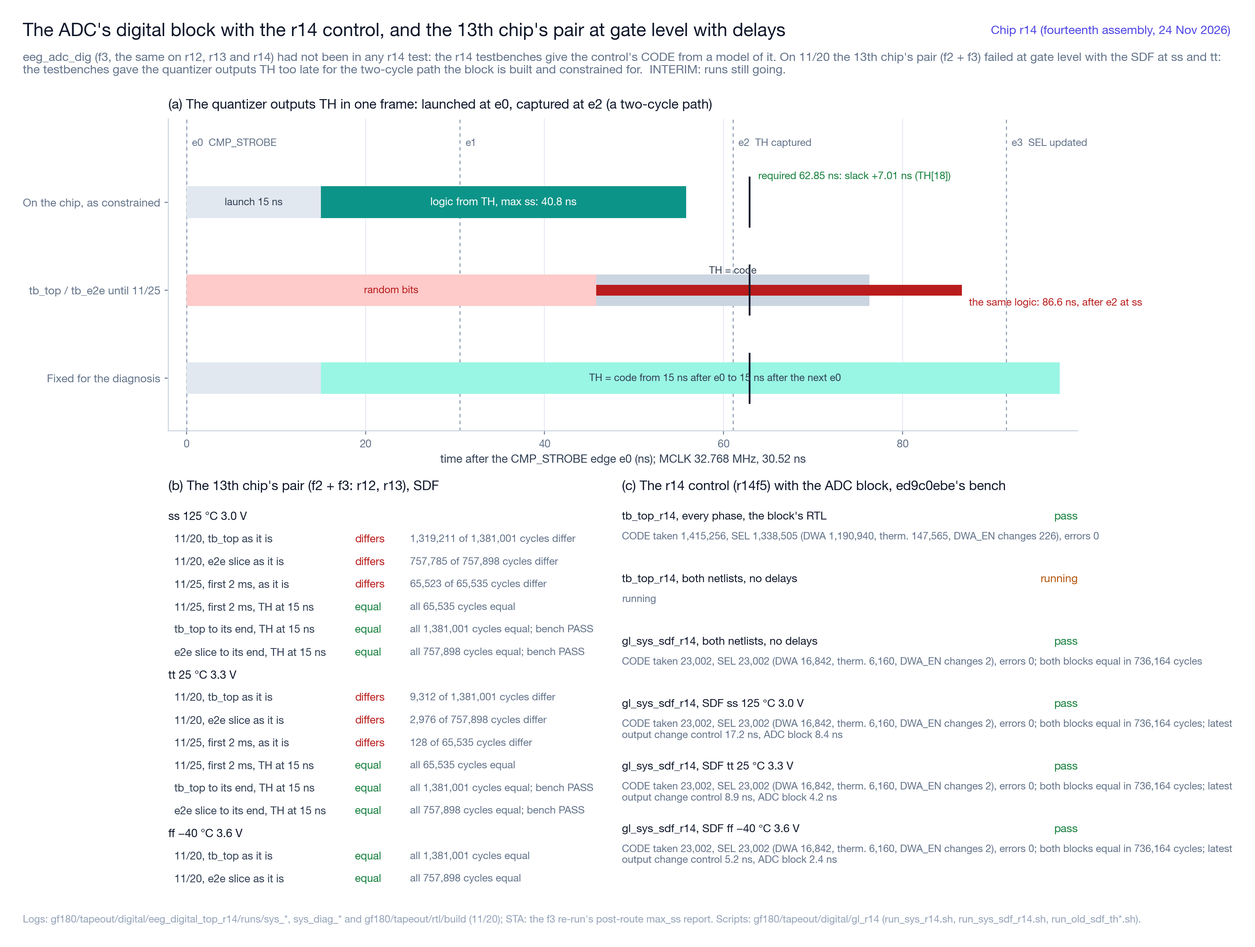
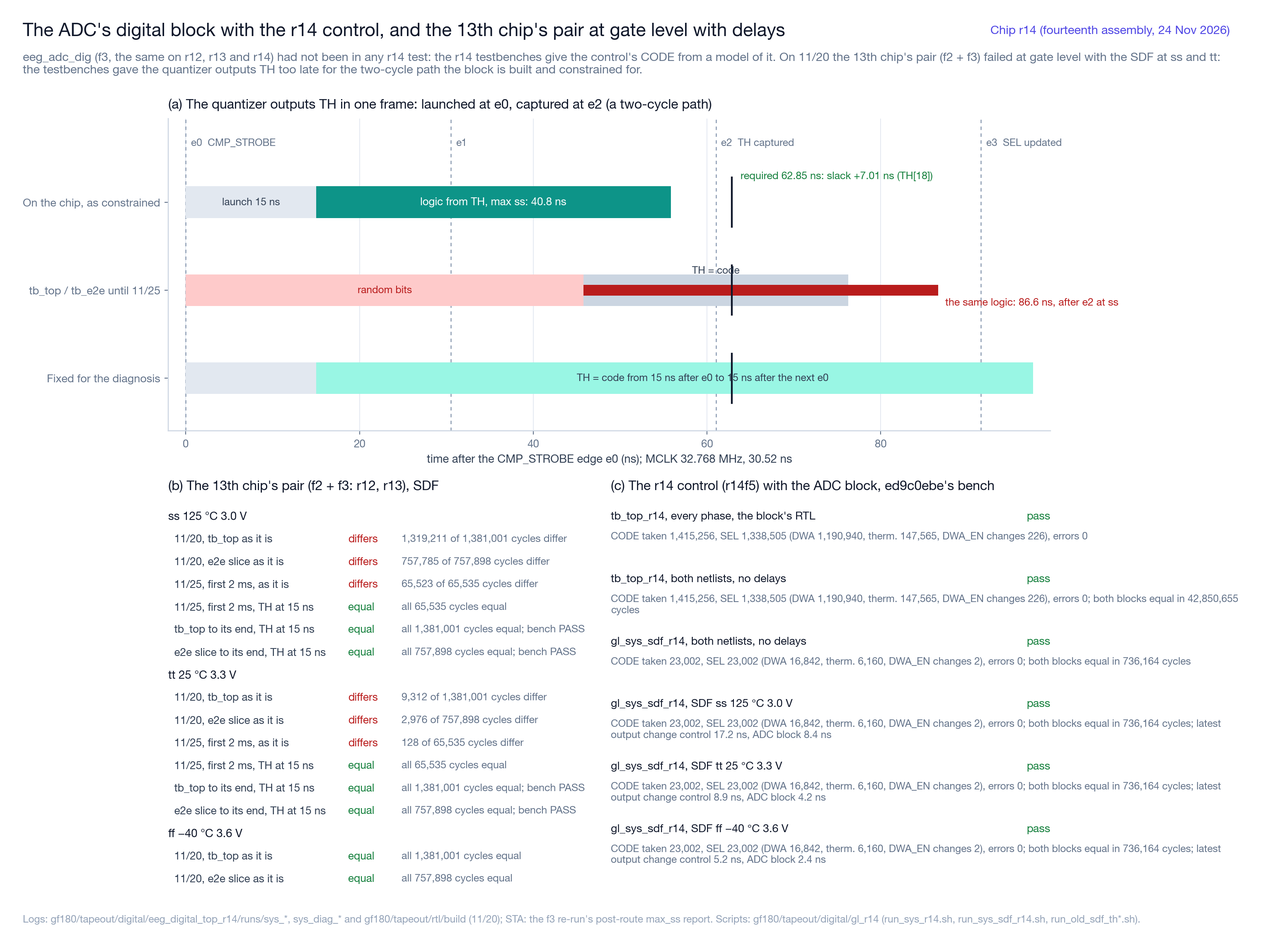
GF180 C3（11/26）：r14 の制御と ADC のデジタル部（eeg_adc_dig、f3）の組の最後の確かめ。tb_top_r14（全段、ed9c0ebe の試験台）を、制御のネットリスト（r14f5）と ADC のデジタル部のネットリストの両方で、制御の CODE を ADC のデジタル部のネットリストから取る閉じたループとして遅延なしで回し、42,850,655 サイクル（1,307.714 ms）の全てで、制御の 50 本の出力と 2 つの状態のレジスタ、ADC のデジタル部の CODE、SEL1、SEL2 が RTL と一致した（17,608 s）。組の確かめ（制御が CO

diff --git a/first_tapeout_eeg/documentation/gf180_tapeout_tracker.md b/first_tapeout_eeg/documentation/gf180_tapeout_tracker.md
@@ -91,7 +91,7 @@
 |---|---|---|---|
 | C1 | RTL：クロック生成、DWA ×2、サーモ→2 進、CIC3、FIFO、SPI、レジスタ、生コード出力。`gf180/tapeout/rtl/` に実装した。追加：チョッパ周波数の選択（既定 128 kHz）、ANA_TRIM（CPF_TRIM、AFE_IBIAS）、CHOP_BLANK（切り替えの 1 MCLK 前から BLANK_LEN 後まで。既定 7）、BOOST_TRIM（ブースト段の単位数）、OFF_CODE_L／OFF_CTRL（電極オフセットの DAC）、CHOP1（OTA1 のチョッパ、レジスタ 0x0F、既定 4 kHz、`eeg_chop1.sv`）、DAC_CLK（DAC1 の更新、e4）。10/23（ゲート 1）：TH の取り込みと DWA を `eeg_adc_dig.sv` に分けた（2 つをつないだ `eeg_digital_sys.sv` で、tb_top の結果は分ける前と同じ）。TEST_CFG[5] ADC_ZERO、[7:6] DBG_SEL を追加。VERSION 0x07。13 本のテストが通る | 10/31 | ✅ |
 | C2 | 検証：単体テスト、行動モデルのコード列による bit-true の通し試験（4 s／20 s 分）。10/24（`gf180_digital_verification_20261024.md`）：単体テスト 13 本が通る。連続時間 2 次 5 bit のループの行動モデル（DAC2 e3・DAC1 e4）のコード列で 4 s／20 s 分の出力を通し、SPI で読んだ 4 250／20 250 サンプルがすべて bit-exact、毎フレームの SEL（DWA）・RAW・ストローブ・CHOP 系の検査も誤りなし（`gf180/tapeout/rtl/run_e2e.sh`）。チップに入っているゲートレベルのネットリスト 2 つを RTL と並べて動かし、出力 108 本とブロック間の 9 本が毎 MCLK で一致（tb_spi、tb_top、通し試験 4 s 分を 5 区間に分けて、計 1 億 4 553 万 サイクル。`run_tests.sh --gl`）。RTL の不具合はなく、マクロを作り直す必要はない。出力の 24 bit の丸めは電極換算 0.026 nVrms。CIC3 の 900 Hz の応答 −57.7 dB は仕様どおりで、0.9〜1.1 kHz の妨害は入力側で落とす（リスク表） | 11/7 | ✅ |
-| C3 | LibreLane（nix）でマクロ化、STA。10/23：eeg_digital_top（f2）と eeg_adc_dig（f3）を作り、3.3 V の 9 コーナーで setup／hold を満たす（ss/125 °C で +1.10／+5.36 ns、ff の hold +0.19／+0.20 ns）。10/24：チップの配線（コアの LVS から抽出）を含めて OpenSTA で解いた（`gf180/tapeout/digital/chip_sta/`）。2 つのマクロの MCLK の端子の差は 0.02 ns 以下、ブロック間の余裕は setup +9.9／hold +1.89 ns 以上、TH の取り込みは最悪の組み合わせで +4.6 ns（量子化器をトランジスタで）。AFE／ADC への長い制御線（CHOP 系 約 3.3 mm、0.6〜1.7 pF）を buf_1 が駆動し、ss で縁が 20〜25 ns になるが、AFE と OTA1 のチョッパのドライバ、DAC1 のブレーク、量子化器はトランジスタで正しく動き、隣の線との結合の乱れも 0.8 V 以下。出力バッファを強くした候補 d1 は、静的な線への結合が 1.2〜3 倍になるので採らない。マクロは今の f2／f3 のまま。**11/24〜25（r14 のマクロ）**：見直した r14 の RTL（e56bc9da。論理は監査の第 10 回から不変、第 44 回の ed9c0ebe まで RTL の変更なし）をマクロ化した（LibreLane のラン r14f5_20261124、440 × 900 µm、出力 50 本を clkbuf_2 で駆動。6 案から採用）。フリップフロップのプリセットとクリアの弧を計時して 9 コーナーの setup ＋0.752／hold ＋0.195 ns、設計規則の警告 0。チップの配線を含めた STA（r13 と r14 のチップのそれぞれの配線）で全て満たし、TH の余裕は max ss で ＋0.80 → ＋5.77 ns（トランジスタで ＋4.9 → ＋7.0 ns）、ブロック間の最悪は DWA_EN の ＋2.83 ns（SOFT_RESET のプリセットの経路。クロックの経路の最悪は TH_CAPTURE の ＋9.16 ns）、ブランキングは縁ごとに始め ＋23.92／終わり ＋28.9 ns。トランジスタの水準の確かめ 4 種（AFE と OTA1 のチョッパのドライバ、量子化器と TH、DAC1 のブレーク、隣の線との結合）も満たす。ゲートレベル（VER-05）は SDF の 3 コーナーと遅延なしで RTL と一致（遅延なしの全段の試験 tb_top_r14 は e56bc9da、3de8d03b、810a0bc4、ed9c0ebe の 4 つの版の試験台で一致。最新の ed9c0ebe の試験台（段 AK〜AM と第 42〜44 回の追加を含む）で 42,850,655 サイクル、サンプル 160 個が黄金の CIC と、シーケンサの事象 157,256 個が fsm_spec と一致。tb_spi_r14 の 16,484,254 サイクルと状態の注入も一致）。ADC のデジタル部（f3。r12〜r14 で同じ）との組（11/25〜26）：r14 の全段の試験台で、制御が取る CODE の全て（1,415,256 回）が ADC のデジタル部の値と同じで、DAC を選ぶ SEL（1,338,505 回の更新）が参照の DWA と一致。組の試験台は、遅延込みの 3 コーナーでも両方のネットリストで RTL と一致。r13 の二つのマクロの 11/20 の遅延込みの不一致は、試験台の TH の与え方（取り込みの約 15 ns 前に確定）によるもので、TH をチップの形にすると ss、tt とも一致した（第 6 節、第 8.8 節）。マクロの電力はゲートレベルの動きで tt 14.4 → 23.1 mW（DVDD 4.36 → 7.00 mA。r14 を採るなら雑音のデッキを r14 の電流で回し直す）。13 回目のチップの配線での値も出し直した（第 5 節は 10/24 の配線の値で、r13 の TH の STA の余裕は ＋0.80 ns）（`gf180_digital_verification_20261024.md` の第 8 節、図 53、55、56） | 11/21 | ✅ |
+| C3 | LibreLane（nix）でマクロ化、STA。10/23：eeg_digital_top（f2）と eeg_adc_dig（f3）を作り、3.3 V の 9 コーナーで setup／hold を満たす（ss/125 °C で +1.10／+5.36 ns、ff の hold +0.19／+0.20 ns）。10/24：チップの配線（コアの LVS から抽出）を含めて OpenSTA で解いた（`gf180/tapeout/digital/chip_sta/`）。2 つのマクロの MCLK の端子の差は 0.02 ns 以下、ブロック間の余裕は setup +9.9／hold +1.89 ns 以上、TH の取り込みは最悪の組み合わせで +4.6 ns（量子化器をトランジスタで）。AFE／ADC への長い制御線（CHOP 系 約 3.3 mm、0.6〜1.7 pF）を buf_1 が駆動し、ss で縁が 20〜25 ns になるが、AFE と OTA1 のチョッパのドライバ、DAC1 のブレーク、量子化器はトランジスタで正しく動き、隣の線との結合の乱れも 0.8 V 以下。出力バッファを強くした候補 d1 は、静的な線への結合が 1.2〜3 倍になるので採らない。マクロは今の f2／f3 のまま。**11/24〜25（r14 のマクロ）**：見直した r14 の RTL（e56bc9da。論理は監査の第 10 回から不変、第 44 回の ed9c0ebe まで RTL の変更なし）をマクロ化した（LibreLane のラン r14f5_20261124、440 × 900 µm、出力 50 本を clkbuf_2 で駆動。6 案から採用）。フリップフロップのプリセットとクリアの弧を計時して 9 コーナーの setup ＋0.752／hold ＋0.195 ns、設計規則の警告 0。チップの配線を含めた STA（r13 と r14 のチップのそれぞれの配線）で全て満たし、TH の余裕は max ss で ＋0.80 → ＋5.77 ns（トランジスタで ＋4.9 → ＋7.0 ns）、ブロック間の最悪は DWA_EN の ＋2.83 ns（SOFT_RESET のプリセットの経路。クロックの経路の最悪は TH_CAPTURE の ＋9.16 ns）、ブランキングは縁ごとに始め ＋23.92／終わり ＋28.9 ns。トランジスタの水準の確かめ 4 種（AFE と OTA1 のチョッパのドライバ、量子化器と TH、DAC1 のブレーク、隣の線との結合）も満たす。ゲートレベル（VER-05）は SDF の 3 コーナーと遅延なしで RTL と一致（遅延なしの全段の試験 tb_top_r14 は e56bc9da、3de8d03b、810a0bc4、ed9c0ebe の 4 つの版の試験台で一致。最新の ed9c0ebe の試験台（段 AK〜AM と第 42〜44 回の追加を含む）で 42,850,655 サイクル、サンプル 160 個が黄金の CIC と、シーケンサの事象 157,256 個が fsm_spec と一致。tb_spi_r14 の 16,484,254 サイクルと状態の注入も一致）。ADC のデジタル部（f3。r12〜r14 で同じ）との組（11/25〜26）：r14 の全段の試験台で、制御が取る CODE の全て（1,415,256 回）が ADC のデジタル部の値と同じで、DAC を選ぶ SEL（1,338,505 回の更新）が参照の DWA と一致。全段を両方のネットリストで閉じたループ（遅延なし、42,850,655 サイクル）と、組の試験台の遅延込みの 3 コーナーでも RTL と一致。r13 の二つのマクロの 11/20 の遅延込みの不一致は、試験台の TH の与え方（取り込みの約 15 ns 前に確定）によるもので、TH をチップの形にすると ss、tt とも一致した（第 6 節、第 8.8 節）。マクロの電力はゲートレベルの動きで tt 14.4 → 23.1 mW（DVDD 4.36 → 7.00 mA。r14 を採るなら雑音のデッキを r14 の電流で回し直す）。13 回目のチップの配線での値も出し直した（第 5 節は 10/24 の配線の値で、r13 の TH の STA の余裕は ＋0.80 ns）（`gf180_digital_verification_20261024.md` の第 8 節、図 53、55、56） | 11/21 | ✅ |
 | C4 | デジタル制御（SPI・レジスタ・起動とデータ開始の手順）の見直し。11/19、ユーザーと実務者の指摘（レジスタの構成が SPI の一般的な使い方に合わない、ビットの区切りと反映時刻、アナログの起動に合わせた SPI とデータ開始の方法、状態機械とフラグによる構成）を受け、現状を状態遷移図（動作状態、SPI のトランザクション、CIC と FIFO）に整理し、問題点 42 項目（SPI 9、レジスタと反映時刻 7、起動と運転の順序 9、状態と通知 5、ADC・AFE の制御 5、クロックとリセット 2、検証 3、データ経路 2）を抽出（`gf180_digital_control_review_20261119.md`）。重大度の高いもの：B1（オフセット DAC の M[9:0] が 2 レジスタに分割、256 の倍数の境界をまたぐ変更で中間値による約 80 mV の段差、AFE の飽和の大きさ約 4 mV を大きく超過、運転中の 1 段の追従でも発生）、B2（アナログに影響する設定の即時反映）、C1・C2（起動とオフセット調整の待ち時間・パルス幅がホスト任せ）、C6（データ開始の位相が FILTER_CLEAR の書き込み時刻で決まり、多チップで最大 1 ms のずれ）、A1（長さの異なる書き込みを通知なしで無視）、G3（ファームウェアを含めた試験なし）。状態機械（POR、IDLE、WARMUP、RECOVER、SETTLE、RUN、APPLY）、命令レジスタの分離、二重バッファと一括反映、固定長フレーム、フラグと ALERT による改善のたたき台を作成。AD7386 はデータシート本文を取得できず、目次と Linux ドライバの文書で確認できた範囲のみ比較。今回 rev で改修する範囲（全面、最小限、改修なし）はユーザーの判断待ち。11/19 夜：要件定義の案（`gf180_digital_control_requirements_20261119.md`）。シーケンサ（RESET、IDLE、WARMUP、RECOVER、SETTLE、RUN、PRE、PULSE）の模範の状態遷移図・状態表・状態遷移表、SPI（R/W とアドレスの形式、先頭バイトで STATUS、書き込みは長さと CRC の検査で確定）、レジスタ（命令の分離、シャドウとアクティブの二重化）、フラグとエラー、ピン（RAW_CLK と RAW_DATA を SYNC と ALERT_N に兼用し、パッドリングは変えない）、非機能と検証の要件、日程の案。未決事項 D-1〜D-8（改修の範囲、SPI の形式、ピン、FIFO の深さ、CHOP_DLY、CRC の既定、自動開始、過負荷の扱い）。11/19 夜（r2）：状態遷移表を機械可読の仕様源（`gf180/tapeout/rtl/spec/fsm_spec.py`）とし、Mermaid の図と表を生成。完全性、決定性、到達性、行き止まり、同時の事象（シーケンサの 5,376 通り）、SPI の確定と取り出しの条件、FIFO の同時の操作を自動で検査して違反 0。仕様の誤り 27 種類を入れる自己試験で、全て検出されることを確認。r1 の論理の穴 19 件を修正（SETTLE を ALIGN と FILL に、WAIT_E の新設、tick と優先順位、STOP による取り消し、cfg_ok の定義など）。11/19 夜（r3、ユーザーの指示「アナログの仕様も確認し、他に問題がないように」）：境目の全信号（25 項目）をアナログ側の文書と照合（第 4.10 節）。r2 の穴 8 件を修正：SYNC と ALERT の RAW のパッドとの兼用はパッドの衝突の危険があるため廃止（同期は MCLK と RESET_N の共有、格子の原点はリセットの解除）、CHOP1 の切り替えの区切りを出力の格子とそろえる（旧い相の重み 9.3 × 10⁻¹⁰）、64 kHz で tick の間に命令が 2 個届く問題を 1 個の保持と STATE_ERR で解消、tick をチョッパの相 A の中ほどの e24 に固定（AFE_RST の縁の位相を決定）、AFE の動作中のパルスなしの反映を ±1 段に限定、過負荷の検出の規則の案（フルスケールのコード列 2,460 万フレームで符号は 3〜27、両端は出ない）。フレーム内の時刻、タイマの最小値、CHOP1、SPI の間隔も自動の検査に追加。検査は違反 0、自己試験は 28 種類すべて検出。11/19 夜：ユーザーの判断「推奨どおりで進めて」で未決事項 D-1〜D-8 を推奨のとおり決定。詳細仕様（`gf180_digital_control_spec_20261119.md`）を作成：レジスタ表を機械可読の仕様源（`gf180/tapeout/rtl/spec/regmap.py`）とし、表と RTL 用の `eeg_regs_pkg.sv` を生成、検査（アドレスとビットの重なり、アナログに効く設定の全てが一括反映、推奨の既定値、タイマの最小値、命令コードの 2 ビット以上の差、STATUS の固定ビット、cfg_ok と nr_ok の境界、過負荷の規則の誤検出なし）は違反 0、自己試験は 15 種類すべて検出（検査器の弱点 1 件を発見して修正）。タイミング図 5 枚を WaveDrom で生成。過負荷の規則（32 フレームに両端の符号 4 個以上）は、フルスケールのコード列で誤検出 0、抽出した ADC の過負荷のランで 4.2 µs 後に検出、戻りの 90.5 µs 後に解除。VER-07（tick の位相でのアナログの確認）を 11/19 の 20 時 52 分にターミナルのタブ c43 で開始（当初の記録の 21 時 40 分は誤り。5 本を並列。`afe_saturation.py --seq` を追加。typical 300／30 mV、ss 300 mV、51 kΩ ∥ 47 nF の 300 mV、起動の 5 本。解除・書き込み・パルスの縁は全て相 A の縁から 57 MCLK）。11/19 夜：r14 の RTL（ユーザーの指示「RTL に進めて」、`gf180/tapeout/rtl_r14/`、詳細仕様の第 7 節）。シーケンサ、tick、CIC の出力の時刻でのクリア、過負荷の検出、レジスタ、SPI、FIFO、最上位（端子は現行と同じ。現行の `rtl/` は r13 の元として不変）。仕様源との照合（VER-09）：シーケンサは乱数の事象列 262,496 事象で不一致 0、状態遷移表の 75 欄すべて。SPI は乱数のフレーム 1,774 個を端子から入れ、SPI の状態遷移表・レジスタ表・CRC-8 で再現して不一致 0、分岐 34 個すべて（MISO の全バイトを含む。取り出しの条件 head は RTL から取らずに独立に求めて比較）。ブロック全体の試験（tb_top_r14）：レジスタ表から生成した 312 項目、CRC とフレームの誤り、START から RUN、APPLY のパルス 101.5639 µs、APPLY_NR と CHANGED、エラー、64 kHz の未処理の命令、FLUSH とオーバーラン、FLUSH をまたぐ読み出し、DRDY_N のパルス、SOFT_RESET で誤り 0。アナログの制御端子の変化は全て tick の直後かリセット中。サンプルは黄金の CIC とビット単位で一致。試験の自己試験（RTL に誤りを 1 個ずつ入れる）：tb_top_r14 は 24 種類、SPI の照合は 13 種類をすべて検出、基準は不一致 0（途中で試験の穴 3 件を修正：読み出しのバイトの途中の CS_N の未試験、格納をまたぐサンプルの読み出しの不足と head の独立化、X での照合器の停止）。RTL の作成で見つけた仕様の穴 4 件を仕様源と文書に反映して修正（FLUSH をまたぐ読み出しで送っていないサンプルを取り出す穴に対し条件 head を新設、試験の鍵の誤りを CMD_ERR と定義、未処理の命令と SOFT_RESET・未定義のコードの関係、DRDY_N のパルス 128 MCLK）。仕様の自己試験は 32 種類すべて検出。面積の目安（汎用セルの合成）：現行のデジタル 4,274 セル・FF 873 個に対し r14 は 5,737 セル（＋34 %）・FF 1,097 個（＋26 %）、FIFO 4 段でも −7 %。現行のマクロ（440 × 700 µm、使用率 75.8 %）に比例させると 95〜102 % で、外形に収まらない見込み。面積の試行（11/19 夜、LibreLane、GF180 9 トラック、`gf180/tapeout/digital/eeg_digital_top_r14/`）：合成 6,182 セル・225,710 µm²（r13 ＋26 %）。440 × 700 µm は使用率 92.0 % でクロックツリーの挿入後の詳細配置が失敗。440 × 900 µm は使用率 73.6 % で完走（配線の DRC・Magic・KLayout 0、LVS 一致、アンテナ 0、セットアップ最悪 ＋0.520 ns（ss、CIC → 丸めと飽和、r13 ＋1.096）、ホールド ＋0.194 ns）。新しいリセットの分配木の最大スルー 4.76 ns（上限 3 ns）は要修正。DVDD のデカップリングの上に 200 µm の余地あり。**r14 のマクロの外形を 440 × 900 µm に決定**（11/19 夜、ユーザーの判断「Yes, 440 × 900」。チップでは DVDD のデカップリングを 200 µm 上へ移す）。lint：Verilator の -Wall（除外なし）で警告 0 に整理（cc3652e6）。11/20：監査（ユーザーの指示「最新の遷移図をもとに，全く問題がないかきちんとチェックしてください。監査を行い，問題がなくなるまで続けてください。」、`gf180_digital_control_audit_20261120.md`）。第 1 回（自らの確認と、結論を渡さない独立の監査 2 件）で 20 件を指摘し、全て修正：重大 4 件（WARMUP の反映で T_WARM を数え直さず、オフセット DAC の変更と同じ tick に AFE_RST を解除しうる → 数え直しと同じ tick の満了の取り消し、要件 SEQ-16。サンプルの OVL が窓 3 ms のうち直前の 1 ms のみ → 3 個の出力の間隔。SOFT_RESET が格子・SEQ・CHOP1 を戻し多チップの同期が崩れる → 制御のみを戻す。模範のホスト手順が記載どおりに動かない → APPLY で FIFO を空にし、CMD_PENDING ＝ 0 を待つ手順）、中 3 件（64 kHz で未処理の命令の間に書いたシャドウを命令が読む → 書き込みを STATE_ERR、高抵抗の電極で APPLY_NR の整定が CHANGED を超える → 3 ＋ T_ELEC 個と RUN の前の待ち直し、探索の T_ELEC）、軽 6 件、検証の穴 3 件、文書の不一致 13 件、アナログの未確認 1 件、RUN を出ても CHANGED の残りが付く 1 件、試験が終わらない変異 1 件。修正のあとの検証：仕様の検査は違反 0、自己試験 50／15 種を全て検出、tb_seq 262,496 事象で不一致 0（77 欄、タイマを独立に模擬）、tb_top_r14 A〜K で誤り 0（FIFO 8 段と 4 段、29 サンプルが黄金の CIC と一致）、tb_spi_r14 1,803 フレームで不一致 0（33 分岐）、Verilator 警告 0、変異の自己試験はブロック全体 38 種・SPI 13 種・シーケンサ 8 種の全てを検出。第 2 回（新たな独立の監査 3 件：シーケンサとアナログ側、SPI・レジスタ・FIFO・データの経路、検証と文書）：RTL の機能の誤りはなし。ホスト手順（高抵抗の電極の探索、命令の完了の確認、DRDY_N の読み方）、仕様の検査器の穴（待ちを別の事象で切る表の誤り）、CHANGED の上書き、試験の穴（RTL に誤りを入れた写し 15 種が全ての試験を通った：アナログの制御端子の値、タイマの長さと限界、cfg_ok の範囲、DFLAG.OVL の制限、FIFO の模型との照合、実行器の判定）、文書の不一致を全て対応。端子の規則を仕様源に入れ、RTL の範囲の表と OFEN を生成に改めた。試験 11 群が合格、変異の自己試験はブロック全体 59・SPI 13・シーケンサ 11・FIFO 5 種の全てを検出。第 3 回（独立の監査 3 件）：RTL の論理の誤りはなし。安全側の変更 1 件（SPI の不正な状態の値を FRAME_ERR に、NFR-05）。試験と検査器の穴（APPLY_NR の規則、シャドウだけの書き込み、SOFT_RESET の FIFO、W1C、全番地の連続読み出し、STATE、RAW とフレームの時刻の端子、実行器の判定、仕様の検査器の 9 種）、ホスト手順（CRC を最初に有効に、SOFT_RESET の確認と DAC の書き直し、APPLY_NR の歩み）、文書を全て対応。試験 13 群が合格、変異はブロック全体 78・SPI 13・シーケンサ 11・FIFO 5・レジスタ 3 種の全てを検出。第 4 回（独立の監査 3 件）：RTL の論理の誤りはなし。安全側の変更 1 件（SOFT_RESET の確定のサイクルの tick と出力の時刻を止め、端子の短いパルスを除く）。写し 24 種が全ての試験を通った穴（M の上位の APPLY_NR、PULSE の CHOP_EN、STATUS の READY、SOFT_RESET をまたぐ過負荷の検出と DAC_CLK、拒否した命令、SPI の不正な状態、CHOP1 の境界など）を塞ぎ、cfg_ok と nr_ok の照合、全ての出力がレジスタであることの構造の確認、仕様の検査器の分岐ごとの性質（自己試験 78 種）を加えた。ホスト手順（命令の前の設定の確認、IF_CFG を 1 回で、SOFT_RESET の確認の改訂）。第 5 回（独立の監査 3 件）：RTL の論理の誤りはなし。サンプルの CRC に先頭バイト 0xC0 を含める（1 ビットの化けで CRC の合う空の語となり読み出しが止まる穴）、CIC のクリアの判断を SOFT_RESET の確定のサイクルで止める、命令の確認のサイクルの試験（T7、tb_regs）、仕様の検査器を tick の解決の結果で（自己試験 83 種）、変異の実行器の判定（TIMEOUT は未決）、手順の穴。17 件を修正。第 6 回（独立の監査 3 件）：RTL の論理の誤りはなし。OVL の印を両端の符号のフレームに限る（尾が窓の外の間隔に及ぶ、安全側）、ホスト手順を一つに整理し同期の回復と上限、全ての試験を通った写し 10 種の穴（T10、T11、マスク、R4b、R9 など）、仕様の検査器が表の 1 か所の書き換えを見逃す穴（シーケンサ 51、SPI 174 → 0 と等価な 2。自己試験 95 種）、変異の実行器（TOOL ERROR、INCOMPLETE）。14 件を修正。試験 16 群が合格、変異の全数の実行（165 種と基準 9 本）は、第 7 回の修正のため 110 本で止めた（全て検出）。第 7 回（独立の監査 3 件）：RTL の論理の誤りはなし。AFE_RST が ADC の積分器のリセットを兼ねることを明記、ホスト手順（CRC の合うサンプル、同期の回復の確かめ、RUN の APPLY を STATE ≠ RUN で）、全ての試験を通った写し 4 種の穴（SEQ の計数の表、過負荷の閾値、FIFO_LEVEL、ガード）、表の 1 か所の書き換えの全数が検査で捕まる（シーケンサ 1,931、SPI 1,159 通り。自己試験 105 種、regmap 19 種）。16 件を修正。第 8 回（独立の監査 3 件）：RTL の論理の誤りはなし。CHOP_STOP の説明の訂正（出力チョッパも相 A に固定）、ホスト手順（APPLY の確かめの起点、(a) を満たさない命令、W1C、CRC 無効のサンプル）、全ての試験を通った写し 5 種の穴（ガードの判断の順、空の語、RAW_DATA、MISO の遅れ）、STATUS とサンプルの状態のバイトを生成した定数で（形式の等価性で一致）、黄金の比較を全ての段に。18 件を修正。第 9 回（独立の監査 3 件）：RTL の論理の誤りはなし。整合する設定の APPLY と APPLY_NR を拒否とする表が検査を通る穴（C の 6,267 通りの掃引で 12 通り）→ 命令の結果を要件から独立に書いた規則と照合（通るのは等価な 28 通り）、同期の段数の構造の検査と遅れの下限、自己試験を目的の違反の文で（fsm_spec 152 種、regmap 37 種、全ての違反の文を固定）、全ての試験を通った写し 3 種の穴（SOFT_RESET の長さ、TH の取り込みのサイクル、RAW の読み込みのサイクル）と V（各状態の APPLY と APPLY_NR）、変異の実行器（SIM ERROR、CHECKER ERROR、--only）、ホスト手順（複数チップの SEQ の揃い、ホストだけの再起動、モードの判定、CRC 無効の読み出しは 3 バイト以上）。18 件を修正。第 10 回（独立の監査 3 件）：RTL の変更 1 件（SPI：リセットの解除のときに走っているフレームを途中から拾い、CRC の書き込みの尾を CRC なしの書き込みとして確定していた → CS_N の同期の初期値を Low、High を見るまでフレームを取らない。W で確認）。APPLY_NR の桁上がりの過渡（511 → 512 で電極換算 約 159 mV）→ 16 の倍数をまたぐ 1 段は APPLY、トランジスタのレベルの評価を実行中。regmap の既定値の固定（試験の設定の既定値の書き換えが全てを通った）とフィールドの規則、仕様の検査の SPI-03 と事象ごとの条件、BFM のフレームの始まりの時刻、V10。17 件を修正。第 11 回（独立の監査 3 件）：RTL の論理の誤りはなし（RTL は手書きの集合と位置を生成した定数に置き換えるのみ、yosys の形式の等価性で一致）。ホスト手順の ERR の持ち主（手順 6 と 8 のクリアが手順 3、4、9 の確かめの証拠を消す → 共通の規則 (e)、手順 3 の読み戻し、手順 4 は効果で）、過負荷の両端の集合の境、不正な状態値と命令の組、読み出し専用の位置、合法な値の表、SPI のバイトの事象の条件。11 件を修正。第 12 回（独立の監査 3 件）：RTL の論理の誤りはなし（RTL は注記のみ）。検証の穴（重大）：eeg_regs のリセットを同期とした写しが全てを通った → tb_top_r14 の X（MCLK を止めて RESET_N）と、全てのフリップフロップの非同期のリセットの構造の検査。仕様の検査器（標本の窓への書き込み、FILL から RUN、タイマの欄）、ホスト手順（複数チップの SEQ、持続する過負荷の手順 8、手順 3 のマスク）、区画、文書。14 件を修正。第 13 回（独立の監査 3 件）：RTL の論理の誤りはなし（RTL は eeg_clkgen の tick の位置を生成した定数に。形式の等価性で一致）。ホスト手順（重大）：レベルのモードの DRDY_N の立ち下がりを逃すと読み出しが止まる → レベルで読む。試験の穴：守らないレジスタの未処理の命令の間の書き込み、CRC 有効の窓への書き込み（全てを通った写し 3 種）。検査器：確定しない書き込みの保持、コードとビットの固定、合成状態の所属。サンプルの二重の記録、tick の一つの出どころ、手順 4 の出口。12 件を修正。第 14 回（独立の監査 3 件）：RTL の論理の誤りはなし（RTL は状態のレジスタに fsm_encoding ＝ "none" の属性のみ）。検査器と試験の穴（重大 3 件）：REG-03 を確かめず STOP で反映する表と RTL が通った、サンプルの OVERRUN ＝ 0 と空の語の ERR ＝ 0 を確かめていなかった、空の FIFO への格納と同じサイクルの写しを通らなかった → 検査、V12、G、T4、T13。ホスト手順の手順 4、端子の欄の照合、tick の位置の照合、FIFO の群の基準、タイミング図の文。17 件を修正。第 15 回（独立の監査 3 件）：RTL の論理の誤りはなし（RTL の変更なし。A は文書の 1 件のみ）。ホスト手順（重大）：手順 5 の SEQ の比較は約 0.7 ms ずれた格子を通す → 番号と位相（DRDY_N の時刻付け、または STATUS の DATA）、RST-04 に RESET_N の同時の単調な解除の基板の要件、CRC の合わない回は数えない。試験の穴（重大）：SOFT_RESET の全てのレジスタと旗の復帰を確かめず、タイマ、ALERT のマスク、DFLAG、DRDY_MODE を戻さない写しが通った → Y。書き込み専用の読み出し、合法でない全ての値、STATUS の READY と DATA、待つ間の鍵の効果。検査器：STATUS の 6 ビット、1 バイトの命令と鍵、読み値、SAMPLE の既定値。SPI のタイミング図をサンプルのフレームの一つの定義と表から生成（`wave.py selftest`）。文書（手順 6、NFR-05、§4.10 など）と V13。18 件を修正し、APPLY_NR の桁上がりの評価を記録（図 49：最初の周期 12.4 mV、0.1 mV 未満まで 25 µs、飽和なし。DAC の最上位の桁上がりの DNL ≈ −1 LSB）→ 規則の扱いは判断に諮る（11/21：これは範囲の外の圧縮。範囲の中の再実行では、出力の生の波形が 1.72 V で ADC の範囲を 0.3〜0.4 µs 超えるが飽和なし、チョッパの周期の平均は最初の周期から終わりの値、DNL ≈ −0.5 LSB。図 49 を描き直した。11/21 のユーザーの判断で規則を緩めた：M[9:4] の変わる 1 段も APPLY_NR でよい。要件の D-9）。第 16 回（独立の監査 3 件）：RTL の論理の誤りはなし。アナログの検証（重大）：VER-07 の結果が未記録で、オフセットの書き込みの 3 本と図 49 の桁上がりのランは M を公称の 1 段から決めたため ADC の入力が範囲の外 → デッキに r14 の既定のトリムと範囲の選択肢、範囲の中で 6 本、起動と電極に R・C のある 1 本も r14 の既定のトリムで再実行中。試験の穴（重大）：SOFT_RESET を越えて残る未処理の命令 → I。ホスト手順：窓の隣の 3 アドレスの 2 回の読み、読み直しは 1 バイト分の SCLK、再送の規則の範囲。基板：MISO の引き上げか保持（PIN-04）、RESET_N を能動的に Low。鍵と命令の 1 バイトの比べ、合成状態の始まりの状態、優先順位の完全性、生成する文、実行器の生成物の作り直し。13 件を修正。第 17 回（独立の監査 3 件）：RTL の論理の誤りはなし。試験の穴（重大）：CHOP_BLANK の端子の CHOP_OUT の縁に対する位置（端子をフリップフロップにした写しが全てを通った）→ 端子の監視。CHOP1 の e16、O の DBG_SEL 3、Y0、V13 を 2 MHz に、リセットのあとの波形。検査器：tick の列挙の固定、同じ動作の分岐の拒否、regmap.check のクラッシュ。文書：CHOP1 の速さの変化の位置、R_sc、nr_ok の文、手順 2 の RESET_FLAG のクリアの確かめ、サンプルの先頭バイトの一つの出どころ（SMP_HDR）。14 件を修正。第 18 回（独立の監査 3 件）：RTL の論理の誤りはなし。ホスト手順（重大 3 件）：オフセット DAC の範囲をオフセットを覆う最小のものに下げる（雑音）、CRC 付きの STATUS の読み出しは SCLK の 1 回の滑りで別の値が CRC を通る（READY は STATE、DATA は FIFO_LEVEL、CMD_PENDING は 2 回の一致。regmap が判断に使うレジスタの滑りの強さを確かめる）、再送の規則は同じ SEQ の語をバイトごとに比べる。試験の穴：R の SOFT_RESET の強制と本物の確定 → 監視。検査器：regmap.check のクラッシュ、予約のビット、条件の変数。11 件を修正。第 19 回（独立の監査 3 件）：RTL の論理の誤りはなし。ホスト手順（重大 3 件）：規則 (d) の CMD_PENDING の待ちの上限を 2 回の一致に合わせる（tick の間隔の最大と CRC 付きの STATUS の読み出し 4 回分）、範囲 0 では APPLY_NR で追従しない（チップで拒むかはユーザーの判断）、手順 6 の滑ったフレームは次の先頭バイトの ALERT で特定する（第 18 回の規則は正しい語を捨て、また上書きした。tb_top_r14 の Y で FRAME_ERR の時刻を確かめる）。試験の穴 3 件：ロック中の試験のレジスタの読み出し、サンプルの ERR（DFLAG による ALERT。全てのサンプルの状態のバイトを格納の時点の旗と照合）、TEST_CFG[7:6] の書き込みでの変化。検査器：滑りの模型を先頭バイトの中の滑りと規則 (a) に、リセットのサイクルの組み合わせ、2 個の条件の依存。文書：READY と DATA を STATE と FIFO_LEVEL に。11 件を修正（重複 3 件）。第 20 回（独立の監査 3 件）：RTL の論理の誤りはなし。手順：START と APPLY の T_RST、T_REC、T_ELEC は各待ちの始まりに読まれる（IDLE か RUN でのみ書く）、取りこぼしの読み切りの間は ALERT_MASK_D の OVERRUN を 0 とし、ALERT が 1 の間は SEQ の続かない語を使わない。試験の穴：RAW の流れの DBG_SEL に対する優先とフレームの境での切り替え（試験台の模型による監視と O2）。検査器：滑りの模型に STATUS の全ての値とアクティブの写し、固定のアドレス（FIFO_LEVEL、TEST_MUX）と文書の「名（0xNN）」の照合、区画の半分、記録の滑りの数、取られない SPI の分岐。文書：DBG_SEL 2 の結合、AFE_RST の行の数、DRDY_N の High、フレームの始まりの MISO の Low、詳細仕様 7.7。12 件を修正（重複 1 件）。第 21 回（独立の監査 3 件）：RTL の論理の誤りはなし（RTL は注記の 1 行のみ）。手順：第 20 回の取りこぼしの手当ては効かない → ALERT_MASK_D ＝ 0（DFLAG を ALERT に含めず、サンプルの旗と SEQ の欠番で知る）、OVERRUN を SEQ の飛びの例外から除く。検査器：自己試験が文書の引く自分の数を照合、端子の欄のビットの範囲、要件の滑りの数、lsb −1 のクラッシュ。網羅：VER-01 にリセットの遷移（tb_seq が全ての状態でリセット、87 分岐）、Y0 の 1〜7 回の取りこぼし。文書：ガードの理由の残り、tick で読む値の一覧、サンプルの語のバイトの順、MOSI の詰め物、VER-07 の状況。11 件を修正。第 22 回（独立の監査 3 件）：RTL の論理の誤りはなし（RTL は注記の 1 行のみ）。手順：読み出しの途中のリセット（と MCLK の停止）で待っている語の捨て方、詳細仕様 3.3 を手順 6 に、手順 8 の順序。試験：パルスのモードの DRDY_N の端子の監視と G3b、T4 の印 0、D4、tb_spi_r14 の SCLK の 4 種、tb_seq の網羅の 1 歩の試験台（18,432 通り）。検査器と実行器：`wave.py selftest` の数の照合、変えたブロックの単体の試験台と FIFO の 4 段、検査器の落ちの規則、共有の入力の複写と SHA-256。文書：第 4.10 節の反映の時、SPI-12 の参照、CHOP1 の重み、注記のレジスタの名。13 件を修正。第 23 回（独立の監査 3 件）：RTL の論理の誤りはなし（RTL は注記の 3 行のみ）。手順：第 22 回の待っている語の規則を第 19 回の FRAME_ERR の規則と整合（確定は ALERT ＝ 0 か RESET_FLAG のない CRC の合う ERR、ERR の CRC の不一致は読み直し）、複数チップの DRDY_N の位相の確かめをレベルのモードで成り立つ形に。試験：Y1（滑った FIFO_LEVEL の読み出しのあとのサンプルの読み出し）、生成した 2b（レジスタの独立、3 通りの順と連続読み出し）、VER-02 の 12 種類 × SCLK の 4 種の全ての組。実行器：同じ書き換えの拒否（q14 を除く）、変異 2 種。文書：wave_chop.png の「28 kHz」と `wave.py` のはみ出しの確かめ、第 4.10 節の 5 行、r13 の名の注記。8 件を修正。Mac の更新のための区切り（11/21 夜）。第 24 回（独立の監査 3 件）：RTL の論理の誤りはなし（RTL は注記のみ）。手順：範囲の上端の追従（一つ上の範囲へ）、RUN の待ちの起点（最後の START、APPLY、APPLY_NR）、CMD_PENDING の待ち（命令の 17 フレームのあとの 1 回、上限は 17 フレームと読み出し 3 回分）、規則 (c) の写しの 2 回の一致。試験：SPI の VER-02 の定まった前置きと数え方、BFM のフレームの始まりの MISO の Low、変異 2 種、生成器の数の照合。工程：変異の全数の実行を別の写しで止めずに完了させる（第 7 回のあと完了していなかった）。文書：VER-07 の状況、CIC の窓、RST-01。12 件を修正。第 25 回（独立の監査 3 件）：RTL の論理の誤りはなし（RTL の変更なし）。手順：範囲 4 の上端（1023 から外へ動かさない）、規則 (c) の MCLK の停止（2 個以上続く先頭バイトの固定のビットの欠け、DRDY_N の縁は RUN のみ）、手順 5 (ii)（数えた 2 回の一致）。試験：試験台の時刻の起点（偽りの検出）、レベルのモードの DRDY_N の監視と変異 m171、SPI の基準の判定。工程：全数の実行の版（FULLRUN_VERSION と写しの比べ）。検査：CIC の次数と重みの照合。文書：第 4.10 節の AFE_RST の行、SEQ-12、図 49 は 128 kHz のみ、SPI のフレームの数。12 件を修正。第 26 回（独立の監査 3 件）：RTL の論理の誤りはなし（RTL の変更なし）。端子：ADC_ZERO の試験のモードの SOFT_RESET による CHOP_BLANK の約 1 MCLK の Low を NFR-06 の例外に（無害）。手順：OFF_M_L の写しの滑りの逆の向き（手順 4 も 2 回の一致）、手順 5 (ii) の判定と上限。検証：構造の検査の記憶の確かめ（働いていなかった）、4 段の試験台を DEPTH の変異に、STATUS への書き込み、パルスの時刻の許容、変異 4 種、監査の模擬の元を tb/audit_probes に。文書：VER-02 の数え方。9 件を修正。第 27 回（独立の監査 3 件）：RTL の論理の誤りはなし（RTL の変更なし）。文書：DBG_SEL 3 の RAW_DATA は相 A のみ（項目 308 を訂正）、手順 7 と OFM、CHOP_BLANK の数は 128 kHz の値、SPI-10。手順：手順 3 の読み戻しも 2 回の一致、書き込み可能な全てのレジスタの滑りの記録。検証：W1C の門の滑り（tb_regs と 2b）、単一のクロック（構造の検査）、SPI の不正な状態の値を RTL の符号から、変異 7 種、実行器の版の確かめと写しの保護、試験台の選び方。9 件を修正。第 28 回（独立の監査 3 件）：RTL の論理の誤りはなし（RTL の変更は注記のみ）。手順：反映していない試験のシャドウと施錠（REG-08、手順 3 と 4）、手順 3 の書き直しは IF_CFG を除く、DRDY_N はチップごとに別の線。検証：ERR と DFLAG の共有の W1C の門（tb_regs と J2）、データのみの SOFT_RESET（生成した試験の 2d と J2）、一方向の写し（2c）と DEBUG の書き込みから作る RAW の模型、試験台の見張りと時間の上限、yosys の拒みを FAIL に、変異ごとの源の確かめ、全数の実行の版の確かめを直した、変異 8 種。14 件を修正。第 29 回（独立の監査 3 件）：RTL の論理の誤りはなし（RTL の変更は注記のみ）。文書：SEQ-13 の RESET_N、レベルのモードの DRDY_N の立ち上がりの相、DBG_SEL の注記。手順：試験のレジスタの括弧（施錠の確かめ）、手順 4 の比べの 2 回の一致。検証：施錠したままの書き込み（2e と tb_regs）、リセットの間の時刻の端子、REG-08 の欄のレジスタの検査（自己試験の変異 2 種）、RTL の変異 3 種。9 件を修正。第 30 回（独立の監査 3 件）：RTL の論理の誤りはなし（RTL の変更なし）。手順：試験のレジスタの括弧（ERR の基準 (0)、(5) は確かめた値、反映した設定を戻したあとの APPLY、CRC 有効のときのみ）、CRC 無効の運用の命令の前の読み戻し。検証：反映の tick の確認のサイクルの書き込み（tb_regs と段 Z）、データのみの解錠（2e の 0x3C と鍵の模型）、変異 5 種。fd764c97 の全数の実行が完了（247 種を全て検出）。7 件を修正。第 31 回（独立の監査 3 件）：RTL の論理の誤りはなし（RTL の変更は注記のみ）。手順：CRC 無効のフレームを立ち上げに限る。検査器：滑りの模型の 4 種の故障、TEST_KEY と DEBUG の番地の留め。検証：反映の tick の判断と同じサイクルの書き込み（段 Z の Z3 と ERR のちょうどの値、tb_regs）、未定義の先頭のあとの連続読み出し（1b）、見張りの 1,000 ms、変異 3 種。9 件を修正。第 32 回（独立の監査 3 件）：RTL の論理の誤りはなし（RTL の変更は注記のみ）。検証：FILL を終える出力の過負荷（段 AA、事象の記録の条件を源から、変異 m189）。手順：規則 (c) の期待（過渡の状態と最後に反映した値）。仕様の検査：守るレジスタの全ての番地と範囲の文、REG-01 の一覧、生成のブロックの印、モードの判定の滑りの記録。文書：速さを切り替える APPLY の PRE の長さほか。9 件を修正。第 33 回（独立の監査 3 件）：RTL の論理の誤りはなし（RTL の変更は注記のみ）。検証：充填中の CIC のクリア（tb_cic_arm の 2 回目のクリア、FILL の監視、段 AB、変異 m190）、T_WARM と T_ELEC の上半分の値（段 AC、記録のレジスタの値、口の幅の警告で失敗、変異 m191、m192）、生成のブロックの印の 2 条件。手順：規則 (c) の 7 番目の契機（RUN を待つ間の不正な状態からの戻り）、手順 4、6 の理由。仕様の検査：DAC_LOAD_CYCLE の固定と照合（変異 g13）、判定の 1 ビットの化けと逆の向き。8 件を修正。3ebd90f5 の全数の実行が完了（258 種を全て検出）。第 34 回（独立の監査 3 件）：RTL の論理の誤りはなし（RTL の変更は注記のみ）。アナログの境界：CHOP1 の縁（e16）が ss のブランキング明けのスパイクの頂に落ちる → 図 52 で測り、入力換算の DC の上限 12〜195 nV（既定の 4 kHz で 49 nV）、材料でなく縁は動かさない。検証：格納の縁の旗の変化（段 AD、変異 m193）、自己試験の留められない項 6 個（変異 6 種）、変異の実行器のコンパイルの規則、DAC_LOAD_CYCLE の照合を rtl/tb の試験台にも。手順：CS_N の跳ねを基板とホストの要件に（SPI-11）、手順 6 の RESET_FLAG の確かめ、CRC 無効のチップの到達しうる値、手順 8 の範囲。10 件を修正。第 35 回（独立の監査 3 件）：RTL の論理の誤りはなし（RTL の変更なし）。検証の計画：4.10 の長い制御線の数は r13 のマクロのもので、VER-08 に r14 のマクロ（出力は clkbuf_2、端子が動く）のチップの STA とトランジスタの確かめ 4 本を加えた。chip_sta_report.py は BLANK_LEN 1 と 15 で（r13 で 1 は ＋19.9 ns）。検証：命令のあとの ERR と DFLAG（段 AE、変異 m194、m195）、空の語と先頭の STATUS の写しの時刻（段 AF、変異 m196、m197）、DAC_LOAD_CYCLE の走査（全ての具体化、記録の数、自己試験）、PROBE_OFF_REACHABLE を導いて照合、フレームの図の strobe を TIMING から。文書：SPI-11 の跳ねの閾値と旗、CRC の前の止め、縁の名。9 件を修正。VER-07 の 6 本が全て終わった（11/23。51 kΩ ∥ 47 nF は解除から 2.41 ms で範囲に戻り、T_ELEC 3 ms 以上で最初の格納の窓はそのあと。図 50 の確定版）。第 36 回（独立の監査 3 件）：RTL の論理の誤りはなし（RTL の変更なし）。ホスト手順：手順 7 の粗い探索の符号を、1 段より大きく外れた読みか解除から約 5 R_e C_e のあとの窓に限る（51 kΩ ∥ 47 nF では正しい M でも最初の 2 個は逆の符号）、手順 2 の ID の読みを手順 3 の CRC 付きの 2 回の一致（ID 0xE6、VERSION 0x10）に。検証：段 AG（T_REC と T_RST を待ちの始まりで取る、m198）、AE の DFLAG の立った間の START（m199）、段 AH（IDLE と WARMUP の APPLY_NR の全ての設定、m200）、段 AI（読み出しの先頭の ADDR_ERR の時刻、m201）、wave の線の名ごとに 1 本、regmap の IF_CFG の形の編集、残した掃きの道具。文書：VER-07 の電極換算を 287.02 の利得で（図 50 を描き直し）、SPI-11 の滑りの模型。11 件を修正。第 37 回（独立の監査 3 件）：RTL の論理の誤りはなし（RTL の変更なし）。検証：段 AJ（反映の行列：START、APPLY、APPLY_NR の IDLE と WARMUP、RUN の APPLY の 6 つの類で全ての反映の欄を変え、端子、アクティブの写し、チョッパの幅。m202、m203、m205）、段 AE は ERR の 8 ビットの全てを立てる（m204）、regmap が手順 3 の ID と VERSION の値を照合。文書：手順 7 の解除からクリアまでの上下限（0.255〜1.248 ms）と R_sc、ANA-01 の DAC の縁 e3〜e5、VERSION を読まないとした 3 か所の文と手順 3 の「違えば」、網羅の数の名と前置きの数。9 件を修正。第 38 回（独立の監査 3 件）：RTL の論理の誤りはなし（RTL の変更なし）。ホスト手順：手順 5 (i) の間も RUN の全てのチップを出力ごとに読み切り、FIFO の深さの語を返した回や DFLAG.OVERRUN の立った回は数えない（待たされたチップのあふれで揃ったチップに共通の RESET_N を命じた：主要、B）、手順 7 の追従の閾値をその電極の 1 段の 0.6 倍に（A）、手順 2 の RESET_FLAG を 2 回の一致で（B）。検証：段 AF が STATUS の全体を比べる（m206）、段 AD に DFLAG.OVERRUN の W1C の掃き（m207）、段 AJ に RECOVER、WAIT_E、FILL の APPLY（ALIGN は除く）、regmap が規則 (b) の ID と VERSION と空の窓の模型を確かめる。文書：CHOP_STOP のリセットの例外、時間の注記、見張り 1,500 ms。9 件を修正。第 39 回（独立の監査 3 件）：RTL の論理の誤りはなし（RTL の変更なし）。A は指摘なし（初めて）。ホスト手順：手順 5 の読み切りの務めを、RUN の各チップを FIFO_DEPTH − 1 回の出力ごとに少なくとも 1 回読むことに（第 38 回の「出力ごとに空の語まで」は 1 MHz で 7 個以上のチップの系で 1 ms に収まらない：主要、B）、手順 3 で CAPS を読み、CAPS と FIFO_DEPTH を仕様源で留める（B）。検証：段 AK（STATUS の READY、DATA、AFE_RST、OVL_NOW と空の語の OVL の写しの瞬間。m208〜m212）、tb_spi_r14 の期待の STATUS をレジスタからの模型に。文書：判定に使う内部の信号の一覧、見張りの注記。5 件を修正。第 40 回（独立の監査 3 件）：RTL の論理の誤りはなし（RTL の変更なし）。ホスト手順：手順 7 の測った 1 段の閾値（偶数の M と M ＋ 1 で測り式の値との大きいほう）、追従の範囲（過負荷の規則の働かない ±0.43 V。R_e 約 19 kΩ まで）、1 段が範囲を越える電極の粗い探索（A）、手順 5 (i) の K ＋ 2 回の読み切りと VALID の語の数え方、手順 6 の 2 ms の規則の例外と手順 5 を行えるチップの数（1 MHz で 14 個、2 MHz で 28 個まで）（B）。試験の実行器の最終の判定を管なしに（A）。検証：段 AL（m213〜m215）、見張り 1,800 ms、fsm_spec が SEQ_PRIORITY の先頭の STOP を確かめる（C）。文書：ALERT_MASK_D を REG-01 と FIXED_ADDR に（B）、VER-05 と詳細仕様の第 8 節を r14f5 のあとに（C）。12 件を修正。第 41 回（独立の監査 3 件）：RTL の論理の誤りはなし（RTL の変更なし）。文書：要件 4.10、VER-05、VER-08、G1〜G3 と詳細仕様の第 8 節の r14 の数と状況を r14f5 の記録に（鏡映、違う線 13 本、TH ＋5.77／＋7.0 ns、DWA_EN ＋2.83 ns、CIC のクリアの経路 ＋0.75 ns。ゲートレベルの試験台は e56bc9da の版）（A、C）、SPI-12 の受け付け（B）。ホスト手順：パルスのモードの手順 5 のチップの数（B）。検証：読み出しのデータのバイトの写しの瞬間（詳細仕様 3.2、段 AM、m216）、fsm_spec の TIMING の照合の表（C）。7 件を修正。第 42 回（独立の監査 3 件）：RTL の論理の誤りはなし（RTL の変更なし）。A は指摘なし（2 回目）。ホスト手順：手順 5 (ii) の窓の方法の読み込みの時刻と許容、規則 (b)、(c) の AFE_RST を STATE で（B）。検証：段 AM の読みの経路（STATUS、ERR、DFLAG、写し、2 バイト目）、段 AG の T_ELEC と T_WARM、変異 m217〜m222、fsm_spec の TH の札（C）。5 件を修正。VER-05、VER-08、G1〜G3 と詳細仕様の第 8 節を 14 回目のチップの確かめの完了に。第 43 回（独立の監査 3 件）：RTL の論理の誤りはなし（RTL の変更なし）。A は指摘なし（3 回目）。模型と試験：滑りの模型のチップの 4 番目のバイト、完了したフレームのあとの MISO の 0 の照合（s20）、手順 5 (ii) の例の時刻（B）。検証：段 Y の IDLE の命令と残したサンプル、段 N の PULSE の過負荷、段 AM の 11 個のアクティブの写しの読み、変異 m223〜m227、regmap のデジタルのみの端子の出どころ、段 AG の記述（C）。8 件を修正。第 44 回（独立の監査 3 件）：RTL の論理の誤りはなし（RTL の変更なし）。B は指摘なし（B では初めて）。文書：NFR-05 の 1 tick の遅れと CMD_PENDING の 17 フレームの規則（A）。検証：タイミング図の線の照合（wave の自己試験 18 種、TIMING の cic_in_cycle）、段 AG の (3) の状態、自己試験の履歴の和、手順 5 (ii) の 3.99 µs（C）。5 件を修正。第 45 回（独立の監査 3 件）：RTL の論理の誤りはなし（RTL の変更なし）。A は指摘なし（4 回目）。ホスト手順の式：手順 5 (ii) の窓の方法の時刻の SCLK のデューティ（B。例の数を fsm_spec が照合）。検証：タイミング図の照合されない線（wave の自己試験 27 種）、ERR と DFLAG の旗の立つ時刻の常時の監視と変異 m228〜m230、古い注記（C）。4 件を修正。第 46 回（独立の監査 3 件）：RTL の論理の誤りはなし（RTL の変更なし）。文書：tick で読むタイマの一覧の APPLY_NR、R-07 と R-10（A）、5.0 の busy の文、FLG-02 の源の信号、滑りの検査の説明（B）。検証：SPI の確定と誤りと写しの信号の端子からのサイクル（tb_spi_r14、変異 s21〜s23）、起動の図の RESET_N（wave の自己試験 30 種）、時間の上限 10,800 秒と時間の注記（C）。8 件を修正。マクロ r14m3（クロックツリーの束 10 個・0.2 pF）：セットアップ ss ＋0.979 ns、クロックの警告 9・62 → 1・1、最大スルー 2 は残る。マクロ：r14m1（クロックツリーの束と密度 80 %）はセットアップ −0.436 ns（ss）で不採用、r14m2（r13 の値に戻し、タイミングの修復の余裕を追加）を 11/20 1 時 13 分に開始 | 11/19 | ▶（要件 r3 ✅、詳細仕様 ✅、r14 の RTL と照合 ✅、面積の試行 ✅（外形 440 × 900 µm に決定）、監査の第 1 回 ✅（20 件を修正）、第 2 回 ✅（25 件を修正）、第 3 回 ✅（18 件を修正）、第 4 回 ✅（18 件を修正）、第 5 回 ✅（17 件を修正）、第 6 回 ✅（14 件を修正）、第 7 回 ✅（16 件を修正）、第 8 回 ✅（18 件を修正）、第 9 回 ✅（18 件を修正）、第 10 回 ✅（17 件を修正）、第 11 回 ✅（11 件を修正）、第 12 回 ✅（14 件を修正）、第 13 回 ✅（12 件を修正）、第 14 回 ✅（17 件を修正）、第 15 回 ✅（18 件を修正）、第 16 回 ✅（13 件を修正。アナログの再実行中）、第 17 回 ✅（14 件を修正）、第 18 回 ✅（11 件を修正）、第 19 回 ✅（11 件を修正）、第 20 回 ✅（12 件を修正）、第 21 回 ✅（11 件を修正）、第 22 回 ✅（13 件を修正）、第 23 回 ✅（8 件を修正）、第 24 回 ✅（12 件を修正）、第 25 回 ✅（12 件を修正）、第 26 回 ✅（9 件を修正）、第 27 回 ✅（9 件を修正）、第 28 回 ✅（14 件を修正）、第 29 回 ✅（9 件を修正）、第 30 回 ✅（7 件を修正）、第 31 回 ✅（9 件を修正）、第 32 回 ✅（9 件を修正）、第 33 回 ✅（8 件を修正）、第 34 回 ✅（10 件を修正）、第 35 回 ✅（9 件を修正）、第 36 回 ✅（11 件を修正）、第 37 回 ✅（9 件を修正）、第 38 回 ✅（9 件を修正）、第 39 回 ✅（5 件を修正）、第 40 回 ✅（12 件を修正）、第 41 回 ✅（7 件を修正）、第 42 回 ✅（5 件を修正）、第 43 回 ✅（8 件を修正）、第 44 回 ✅（5 件を修正）、第 45 回 ✅（4 件を修正）、第 46 回 ✅（8 件を修正）、第 47 回を実施中、次は通しの試験・ゲートレベル） |
 
 ## D. 検証（検証計画の L1〜L4）
